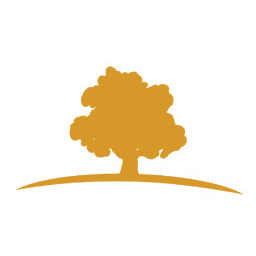
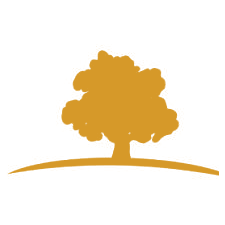
Club mark: crop to the tree and a short horizon so it reads at small sizes
Claude-Session: https://claude.ai/code/session_01DwTJqCtbvtRc53WGXWBa26

Changed region(s): [[0.0311, 0.2178, 0.9956, 0.7778], [0.28, 0.3422, 0.4044, 0.4978], [0.2489, 0.4978, 0.28, 0.5289]]

diff --git a/checkin.html b/checkin.html
@@ -126,7 +126,7 @@ window.__canReload=()=>!dirty&&!saving&&!(document.activeElement&&document.activ
 /* Keeps every open device on the latest version: checks version.json about once a minute and, when a
    newer build is live, reloads at a safe moment (nothing unsaved, no editor open, not mid-typing). */
 (function(){
-  const ME='20261008194141'; let ready=false, lastCheck=0;
+  const ME='20261008194218'; let ready=false, lastCheck=0;
   const typing=()=>{ const a=document.activeElement; return a&&/^(INPUT|TEXTAREA|SELECT)$/.test(a.tagName)&&a.value&&a.type!=='search'; };
   const safe=()=>!typing()&&(typeof window.__canReload!=='function'||window.__canReload());
   async function check(){ lastCheck=Date.now(); if(location.protocol==='file:') return;

diff --git a/cashier.html b/cashier.html
@@ -442,7 +442,7 @@ window.__canReload=()=>!modalOpen&&!dirty&&!saving;
 /* Keeps every open device on the latest version: checks version.json about once a minute and, when a
    newer build is live, reloads at a safe moment (nothing unsaved, no editor open, not mid-typing). */
 (function(){
-  const ME='20261008194141'; let ready=false, lastCheck=0;
+  const ME='20261008194218'; let ready=false, lastCheck=0;
   const typing=()=>{ const a=document.activeElement; return a&&/^(INPUT|TEXTAREA|SELECT)$/.test(a.tagName)&&a.value&&a.type!=='search'; };
   const safe=()=>!typing()&&(typeof window.__canReload!=='function'||window.__canReload());
   async function check(){ lastCheck=Date.now(); if(location.protocol==='file:') return;

diff --git a/score.html b/score.html
@@ -496,7 +496,7 @@ window.__canReload=()=>!queue.length;
 /* Keeps every open device on the latest version: checks version.json about once a minute and, when a
    newer build is live, reloads at a safe moment (nothing unsaved, no editor open, not mid-typing). */
 (function(){
-  const ME='20261008194141'; let ready=false, lastCheck=0;
+  const ME='20261008194218'; let ready=false, lastCheck=0;
   const typing=()=>{ const a=document.activeElement; return a&&/^(INPUT|TEXTAREA|SELECT)$/.test(a.tagName)&&a.value&&a.type!=='search'; };
   const safe=()=>!typing()&&(typeof window.__canReload!=='function'||window.__canReload());
   async function check(){ lastCheck=Date.now(); if(location.protocol==='file:') return;

diff --git a/index.html b/index.html
@@ -4384,7 +4384,7 @@ function wirePayouts(el,t){
 /* Keeps every open device on the latest version: checks version.json about once a minute and, when a
    newer build is live, reloads at a safe moment (nothing unsaved, no editor open, not mid-typing). */
 (function(){
-  const ME='20261008194141'; let ready=false, lastCheck=0;
+  const ME='20261008194218'; let ready=false, lastCheck=0;
   const typing=()=>{ const a=document.activeElement; return a&&/^(INPUT|TEXTAREA|SELECT)$/.test(a.tagName)&&a.value&&a.type!=='search'; };
   const safe=()=>!typing()&&(typeof window.__canReload!=='function'||window.__canReload());
   async function check(){ lastCheck=Date.now(); if(location.protocol==='file:') return;
